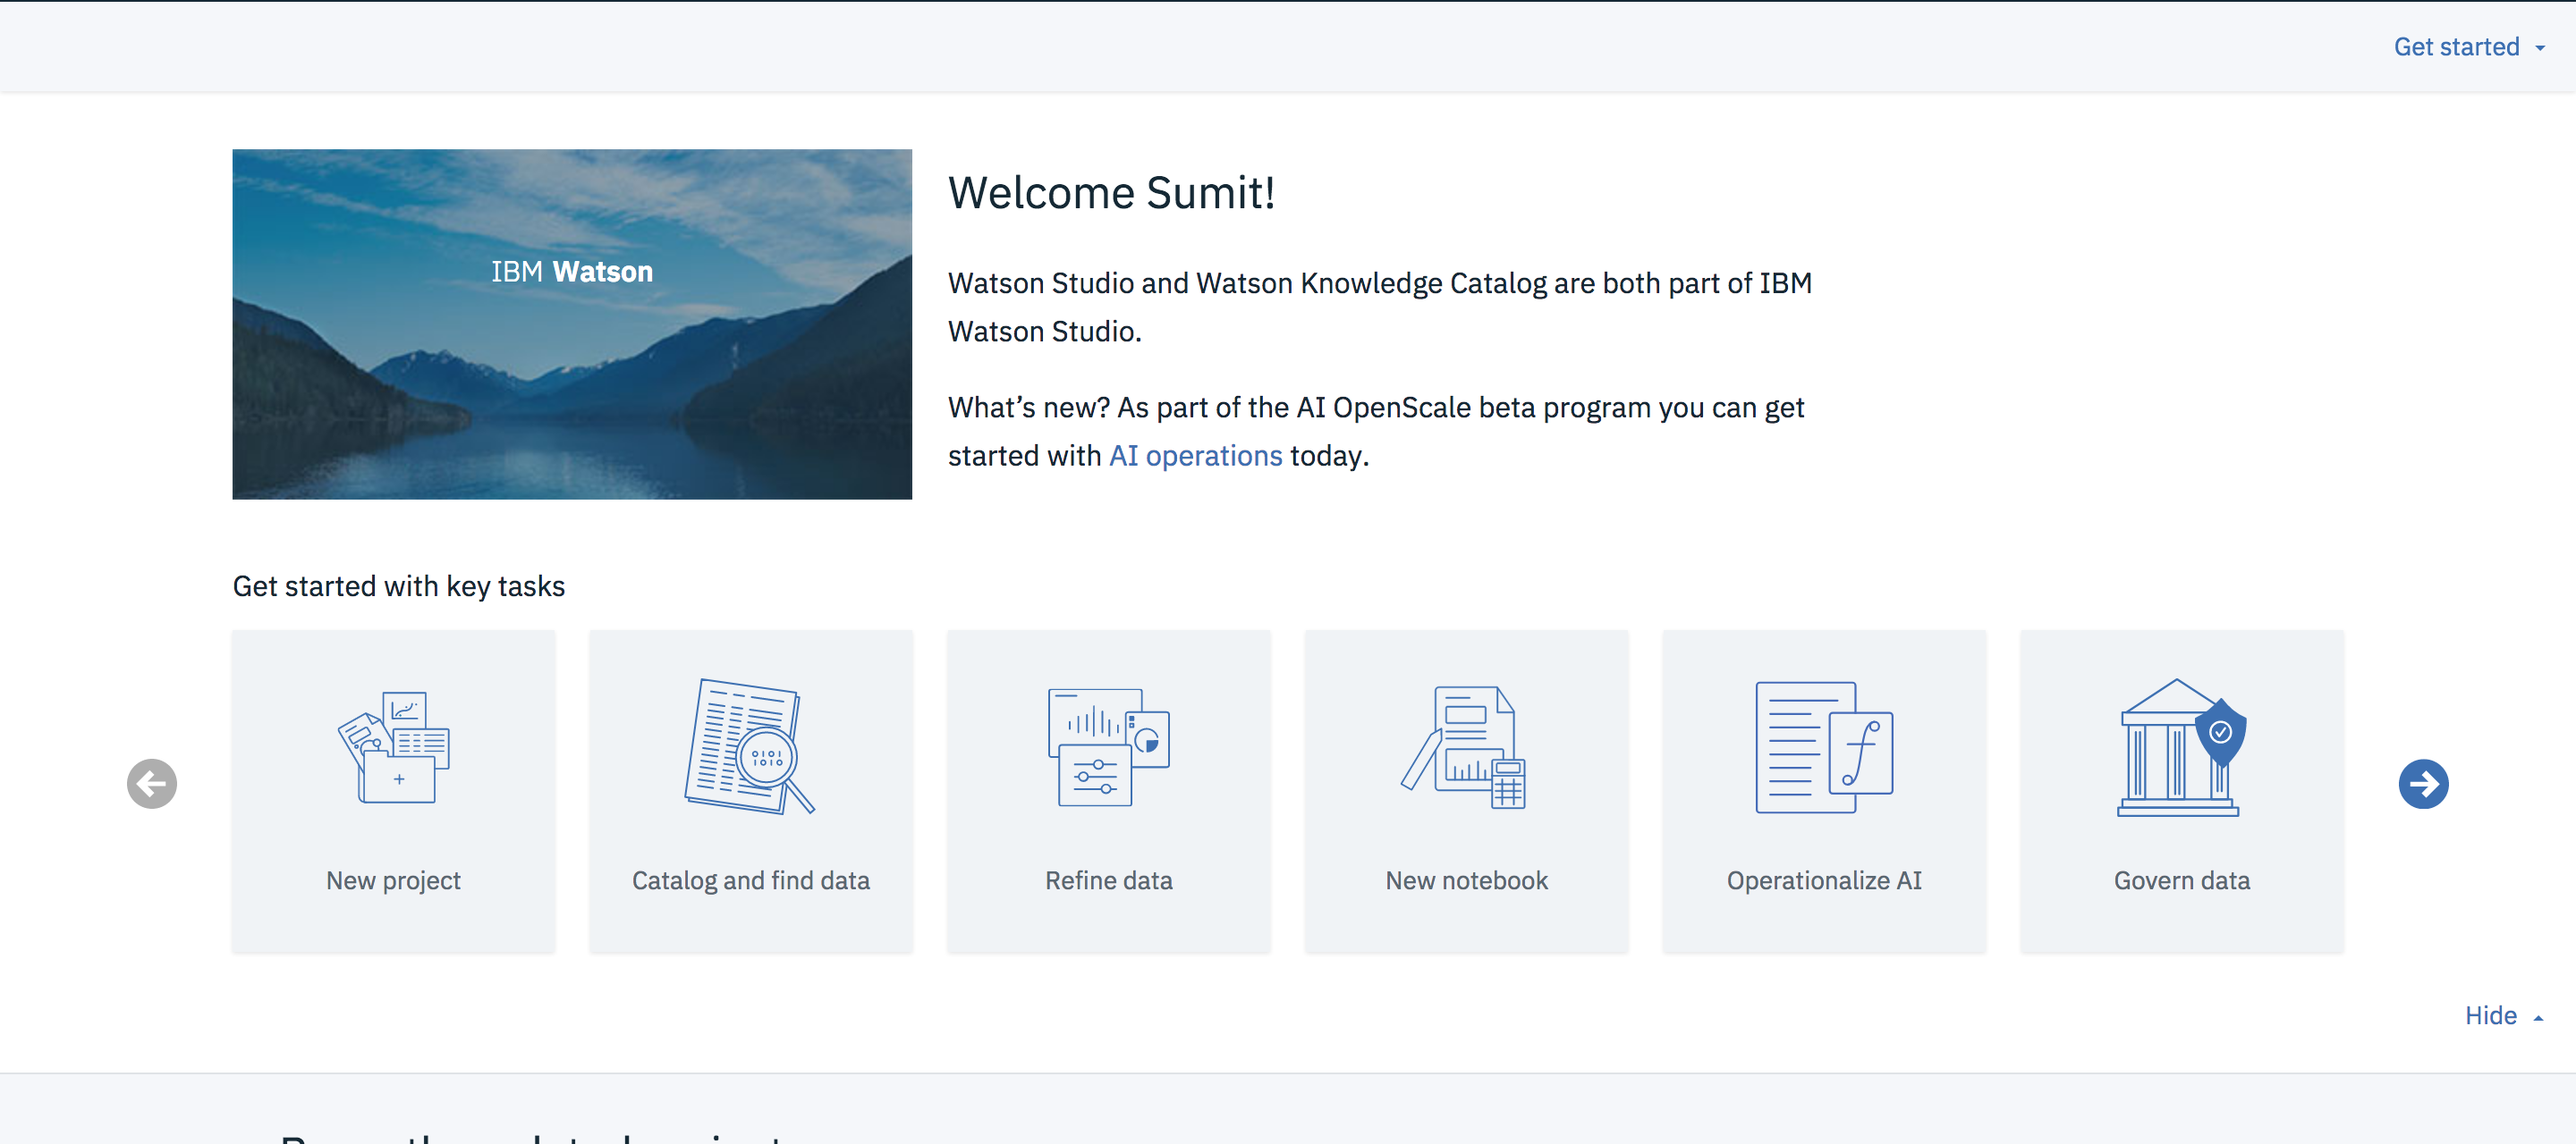
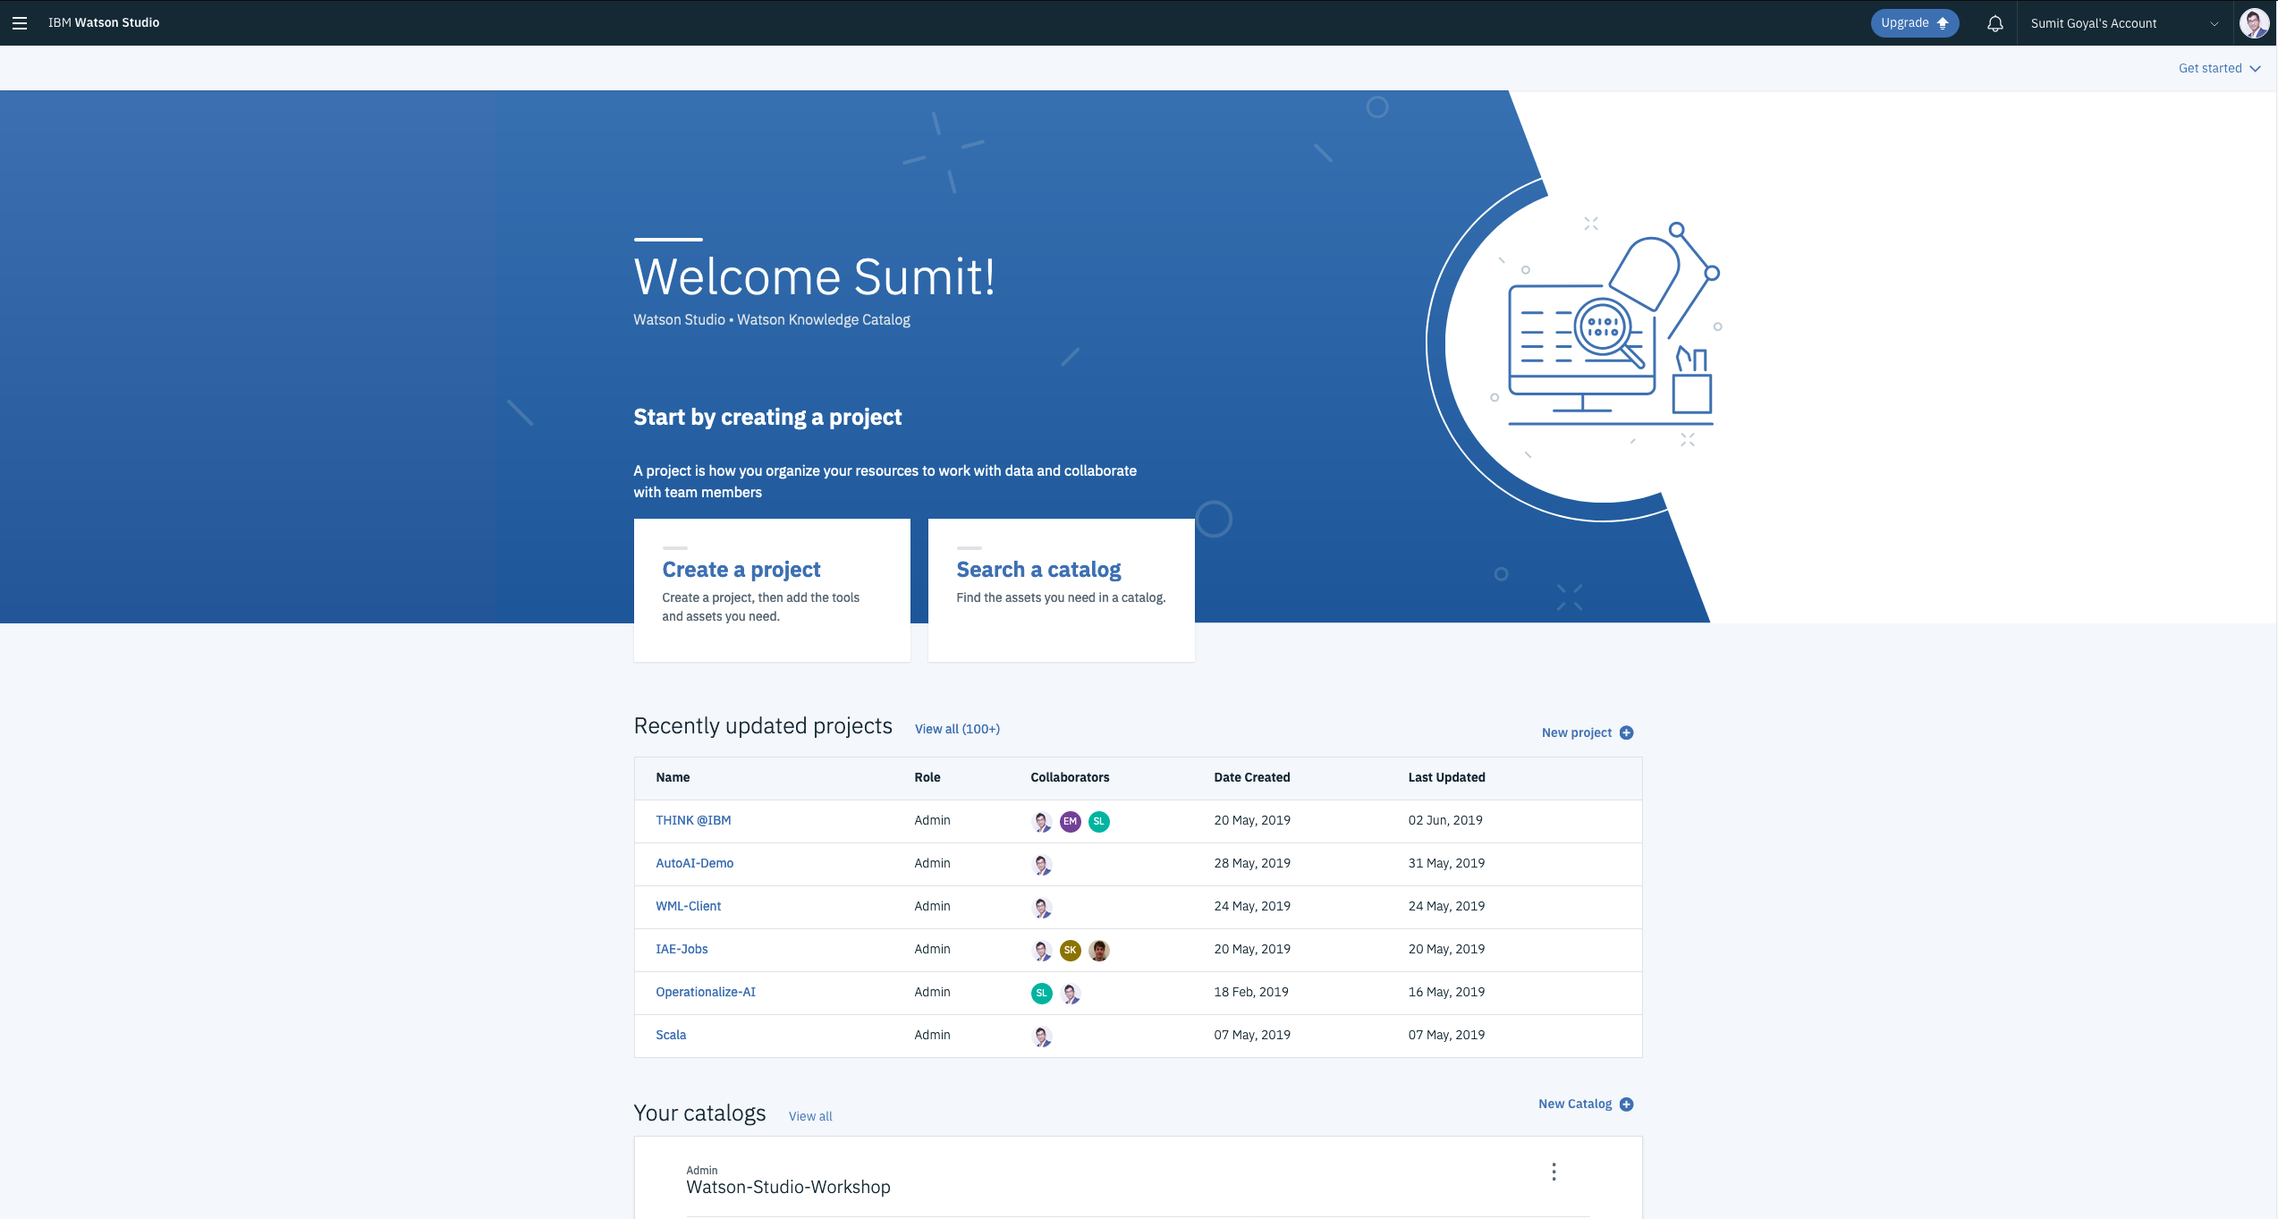
Update project creation instructions

diff --git a/README.md b/README.md
@@ -5,17 +5,24 @@ It is easy to get started with Watson Studio. First of all, you need to login in
 
 
 # Create a Project
-After logging in you will see the overview page which gives you information about your previous activity and some tabs to get started with key tasks.
+After logging in you will see the overview page which gives you information about your previous activity. It also gives you options to create a new project or search for data in the enterprise catalog.
 
 
 ![Watson Studio Landing page](./docs/images/Landing-Page-Tile.png?raw=true "Title")
 
-1. Choose  `New project` ("Complete" is good).
+1. Choose  `Create a project` ("Standard" is good).
 2. On the New project screen, add a name and optional description for the project.
-3. Choose an existing object storage service instance or create a new one. 
-4. Click Create. Your new project opens and you can start adding resources to it.
 
-![New Project Page](./docs/images/New-Project-Page.png?raw=true "Title")
+![New Project Page](./docs/images/new-project-form.png?raw=true "New Project Form")
+
+3. Choose an existing object storage service instance or [create a new one](https://github.com/sumit-goyal/Watson-Studio-Workshop/wiki/Account-setup).
+4. You can leave rest of the settings on default.
+5. Click Create.
+
+Your new project is created and you can start adding resources to it.
+
+![New Project Created](./docs/images/new-project-created.png?raw=true "New Project Created")
+
 
 # Create a Notebook
 
@@ -24,7 +31,7 @@ Download and unzip the [.zip file](https://github.com/sumit-goyal/Watson-Studio-
 1. Select the `Assets` tab in the Project Menu
 2. Click on the `+ Add to project` menu item and select `Notebook` to create a new notebook.
 
-![New Project Page](./docs/images/Add-Asset.png?raw=true "Title")
+![New Project Page](./docs/images/add-to-project.png?raw=true "Title")
 
 3. On the `New Notebook` page select the `From file` tab as you wil be creating a New Notebook from a file.
 
